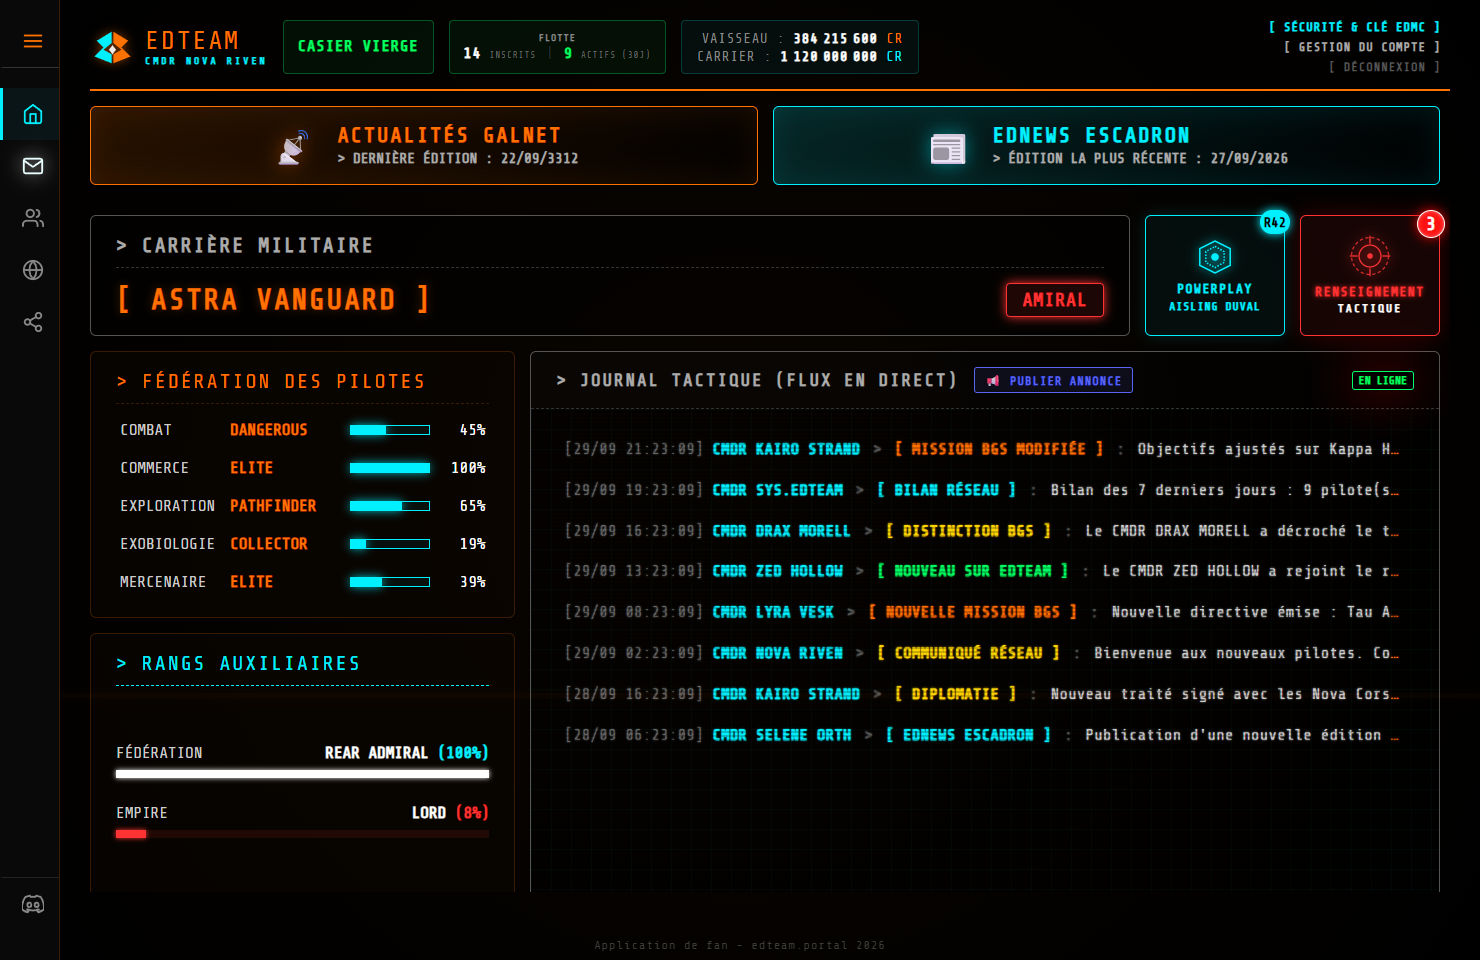
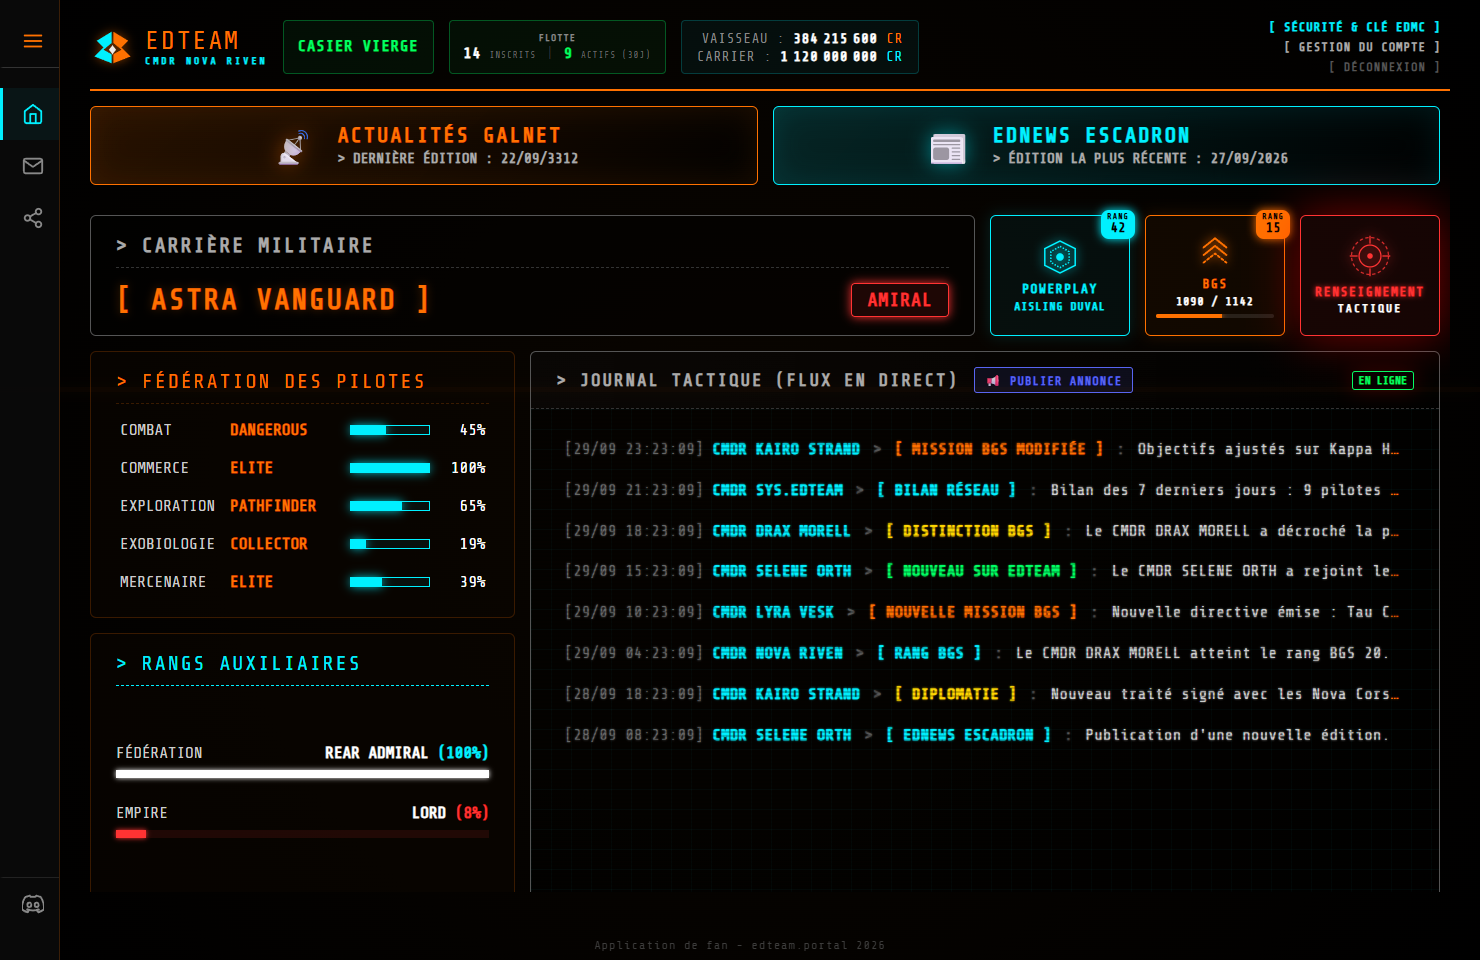
Presentation : rang BGS de carriere (distinction 05, FAQ), historique Powerplay visible par le seul pilote, visuels QG / Powerplay / fiche pilote regeneres avec les rangs BGS et Powerplay

diff --git a/presentation.html b/presentation.html
@@ -87,7 +87,7 @@
                 "name": "Comment sont récompensés les pilotes ?",
                 "acceptedAnswer": {
                     "@type": "Answer",
-                    "text": "Par quatre systèmes complémentaires : les états de service (une plaque par opération clôturée), le mur des spécialistes (huit titres), le Pilier de la semaine (une distinction chaque jeudi, sur la fiche du pilote et dans le journal tactique) et la Force de frappe (la part de chaque pilote dans l'effort de l'escadron)."
+                    "text": "Par cinq systèmes complémentaires : les états de service (une plaque par opération clôturée), le mur des spécialistes (huit titres), le Pilier de la semaine (une distinction chaque jeudi, sur la fiche du pilote et dans le journal tactique), la Force de frappe (la part de chaque pilote dans l'effort de l'escadron) et le rang BGS de carrière (de 1 à 100, permanent, calculé sur l'ensemble des efforts)."
                 }
             },
             {
@@ -371,7 +371,7 @@
                     <p>Le <strong>Journal Tactique</strong> diffuse en direct les directives (avec le système, la faction, le type d'ordre et la priorité), les distinctions, les communiqués du réseau et le bilan hebdomadaire. Tout ce dont un commandant a besoin pour préparer son prochain déploiement, réuni sur un terminal unique.</p>
                 </div>
                 <div class="holo-container">
-                    <div class="holo-card"><img src="images/qg.png" alt="Quartier Général"></div>
+                    <div class="holo-card"><img src="images/qg.png" alt="Quartier Général : boutons Powerplay et BGS avec le rang du pilote, rangs militaires et journal tactique"></div>
                 </div>
             </div>
 
@@ -459,7 +459,7 @@
                     <p>Le <strong>Tableau des Partisans</strong> classe les pilotes du réseau alignés sur la même puissance que vous, par mérites du cycle puis par cumul global. Cloisonnement oblige : vous ne voyez que votre propre puissance, et uniquement le nom, l'escadron, le rang et les mérites de chacun. Jamais de position, ni de flotte.</p>
                 </div>
                 <div class="holo-container">
-                    <div class="holo-card"><img src="images/powerplay.png" alt="Tableau des partisans Powerplay"></div>
+                    <div class="holo-card"><img src="images/powerplay.png" alt="Salle Powerplay : mérites du cycle, progression par cycle et tableau des partisans"></div>
                 </div>
             </div>
 
@@ -518,7 +518,7 @@
     <section id="distinctions" class="section" style="background: rgba(0,240,255,0.02); border-top: 1px solid var(--ed-blue);">
         <div class="container">
             <h2 class="section-title neon-orange" style="margin-bottom: 20px;">RECONNAISSANCE &amp; DISTINCTIONS</h2>
-            <p style="text-align: center; color: #aaa; font-size: 1.3em; line-height: 1.6; max-width: 900px; margin: 0 auto 80px auto;">Chaque effort compte, et ici, il se voit. Quatre systèmes complémentaires reconnaissent votre implication, du pilote occasionnel au pilier de l'escadron.</p>
+            <p style="text-align: center; color: #aaa; font-size: 1.3em; line-height: 1.6; max-width: 900px; margin: 0 auto 80px auto;">Chaque effort compte, et ici, il se voit. Cinq systèmes complémentaires reconnaissent votre implication, du pilote occasionnel au pilier de l'escadron.</p>
 
             <div class="feature-grid">
                 <div class="feature-text">
@@ -528,7 +528,7 @@
                     <p>Chaque plaque raconte l'opération d'un coup d'œil : le type d'ordre, les jours d'activité, l'ampleur de l'effort et la place obtenue au classement de l'escadron.</p>
                 </div>
                 <div class="holo-container">
-                    <div class="holo-card"><img src="images/fiche-pilote.png" alt="Fiche de pilote avec ses plaques d'états de service et ses distinctions hebdomadaires" loading="lazy"></div>
+                    <div class="holo-card"><img src="images/fiche-pilote.png" alt="Fiche de pilote avec ses rangs BGS et Powerplay, ses plaques d'états de service et ses distinctions hebdomadaires" loading="lazy"></div>
                 </div>
             </div>
 
@@ -967,7 +967,7 @@
                 </div>
             </div>
 
-            <div class="feature-grid reverse" style="margin-bottom: 0;">
+            <div class="feature-grid reverse">
                 <div class="feature-text">
                     <span class="sub-data" style="color: var(--ed-orange);">// DISTINCTION 04 : INVESTISSEMENT DU CYCLE</span>
                     <h3 class="neon-orange">VOTRE PART DANS L'EFFORT COMMUN</h3>
@@ -976,6 +976,36 @@
                 </div>
                 <div class="holo-container">
                     <div class="holo-card"><img src="images/investissement.png" alt="Force de frappe : camembert holographique de la part de chaque pilote dans l'effort de l'escadron" loading="lazy"></div>
+                </div>
+            </div>
+
+            <div class="feature-grid" style="margin-bottom: 0;">
+                <div class="feature-text">
+                    <span class="sub-data">// DISTINCTION 05 : RANG BGS DE CARRIÈRE</span>
+                    <h3 class="neon-blue">VOTRE RANG, GAGNÉ POUR TOUJOURS</h3>
+                    <p>Chaque effort accompli pour l'escadron, <strong>directive ou action libre</strong>, rapporte des points qui s'additionnent pour toute votre carrière. Ils déterminent votre <strong>rang BGS</strong>, de 1 à 100.</p>
+                    <p>Un rang gagné ne se perd jamais. Les premiers rangs se gagnent vite, les suivants demandent de plus en plus d'efforts : le rang 100 est réservé aux plus fidèles.</p>
+                    <p style="color: #888; font-size: 0.9em;">Une barre de progression indique ce qu'il reste à accomplir avant le rang suivant, dans la fenêtre BGS du QG et sur la fiche du pilote. Une ligne dorée apparaît dans le journal tactique à chaque dizaine atteinte.</p>
+                </div>
+                <div class="holo-container">
+                    <div class="holo-card" style="box-sizing: border-box; padding: 28px 26px; background: rgba(5, 8, 12, 0.96); font-family: 'Share Tech Mono', monospace;" role="img" aria-label="Exemple de progression du rang BGS : rang 12, 751 points sur 799 pour le rang 13, et repères de points pour les rangs 2, 10, 25, 50 et 100">
+                        <div style="color: #888; font-size: 0.8em; letter-spacing: 2px; margin-bottom: 6px;">EXEMPLE : CARRIÈRE BGS</div>
+                        <div style="display: flex; justify-content: space-between; align-items: baseline; flex-wrap: wrap; gap: 8px;">
+                            <span style="color: #fff; font-size: 1.6em; font-weight: bold; letter-spacing: 2px;">RANG 12</span>
+                            <span style="color: #FFD700; font-weight: bold;">751 <span style="color: #888; font-size: 0.75em; font-weight: normal;">POINTS</span></span>
+                        </div>
+                        <div style="height: 10px; background: rgba(255,255,255,0.08); border-radius: 5px; overflow: hidden; margin: 12px 0 6px;">
+                            <div style="width: 54%; height: 100%; background: var(--ed-orange); box-shadow: 0 0 8px var(--ed-orange);"></div>
+                        </div>
+                        <div style="color: #888; font-size: 0.75em; margin-bottom: 20px;">PROCHAIN : RANG 13 À 799 POINTS</div>
+                        <div style="border-top: 1px dashed rgba(255,113,0,0.35); padding-top: 14px; color: #ccc; font-size: 0.9em; line-height: 1.9;">
+                            <div style="display: flex; justify-content: space-between;"><span>RANG 2</span><span style="color: #fff;">15 pts</span></div>
+                            <div style="display: flex; justify-content: space-between;"><span>RANG 10</span><span style="color: #fff;">505 pts</span></div>
+                            <div style="display: flex; justify-content: space-between;"><span>RANG 25</span><span style="color: #fff;">2 423 pts</span></div>
+                            <div style="display: flex; justify-content: space-between;"><span>RANG 50</span><span style="color: #fff;">7 593 pts</span></div>
+                            <div style="display: flex; justify-content: space-between;"><span>RANG 100</span><span style="color: #FFD700;">23 394 pts</span></div>
+                        </div>
+                    </div>
                 </div>
             </div>
 
@@ -996,7 +1026,7 @@
                 <p style="color: #fff; font-weight: bold; letter-spacing: 2px; margin-bottom: 8px;">QUI VOIT QUOI</p>
                 <ul style="margin: 0 0 30px 20px;">
                     <li>Vos données de jeu (position, soldes, flotte) ne sont lisibles que par vous.</li>
-                    <li>Si vous êtes dans un escadron, votre fiche est consultable par les membres de cet escadron.</li>
+                    <li>Si vous êtes dans un escadron, votre fiche est consultable par les membres de cet escadron. Votre rang BGS et vos points de carrière y figurent, ainsi que dans le tableau de l'escadron.</li>
                     <li>Les autres pilotes ne voient que votre nom de CMDR dans la liste des destinataires. Dans le tableau Powerplay, ils voient votre nom, votre rang et vos mérites (du cycle et cumulés), uniquement si vous êtes de la même puissance. Votre historique par cycle (« Ma progression ») n'est lisible que par vous.</li>
                     <li>Le Directeur de l'application peut consulter les fiches pour l'administrer.</li>
                 </ul>
@@ -1054,7 +1084,7 @@
                 <h3 style="color: #fff; font-size: 1em; letter-spacing: 2px; margin: 0 0 6px;">QUELLES DONNÉES SONT COLLECTÉES ?</h3>
                 <p style="margin: 0 0 26px;">Votre adresse email et des informations tirées de votre journal de jeu. Le détail, ce que voient les autres pilotes et la suppression du compte sont décrits dans la section <a href="#vos-donnees" style="color: var(--ed-blue);">« Vos données »</a>.</p>
                 <h3 style="color: #fff; font-size: 1em; letter-spacing: 2px; margin: 0 0 6px;">COMMENT SONT RÉCOMPENSÉS LES PILOTES ?</h3>
-                <p style="margin: 0 0 26px;">Par quatre systèmes complémentaires : les états de service (une plaque par opération clôturée), le mur des spécialistes (huit titres), le Pilier de la semaine (une distinction chaque jeudi, sur la fiche du pilote et dans le journal tactique) et la Force de frappe (la part de chaque pilote dans l'effort de l'escadron).</p>
+                <p style="margin: 0 0 26px;">Par cinq systèmes complémentaires : les états de service (une plaque par opération clôturée), le mur des spécialistes (huit titres), le Pilier de la semaine (une distinction chaque jeudi, sur la fiche du pilote et dans le journal tactique), la Force de frappe (la part de chaque pilote dans l'effort de l'escadron) et le rang BGS de carrière (de 1 à 100, permanent, calculé sur l'ensemble des efforts).</p>
                 <h3 style="color: #fff; font-size: 1em; letter-spacing: 2px; margin: 0 0 6px;">FONCTIONNE-T-IL SUR MOBILE ?</h3>
                 <p style="margin: 0 0 26px;">Oui. Un compagnon mobile permet de consulter les directives BGS de l'escadron, le statut et les communications depuis un téléphone.</p>
             </div>
